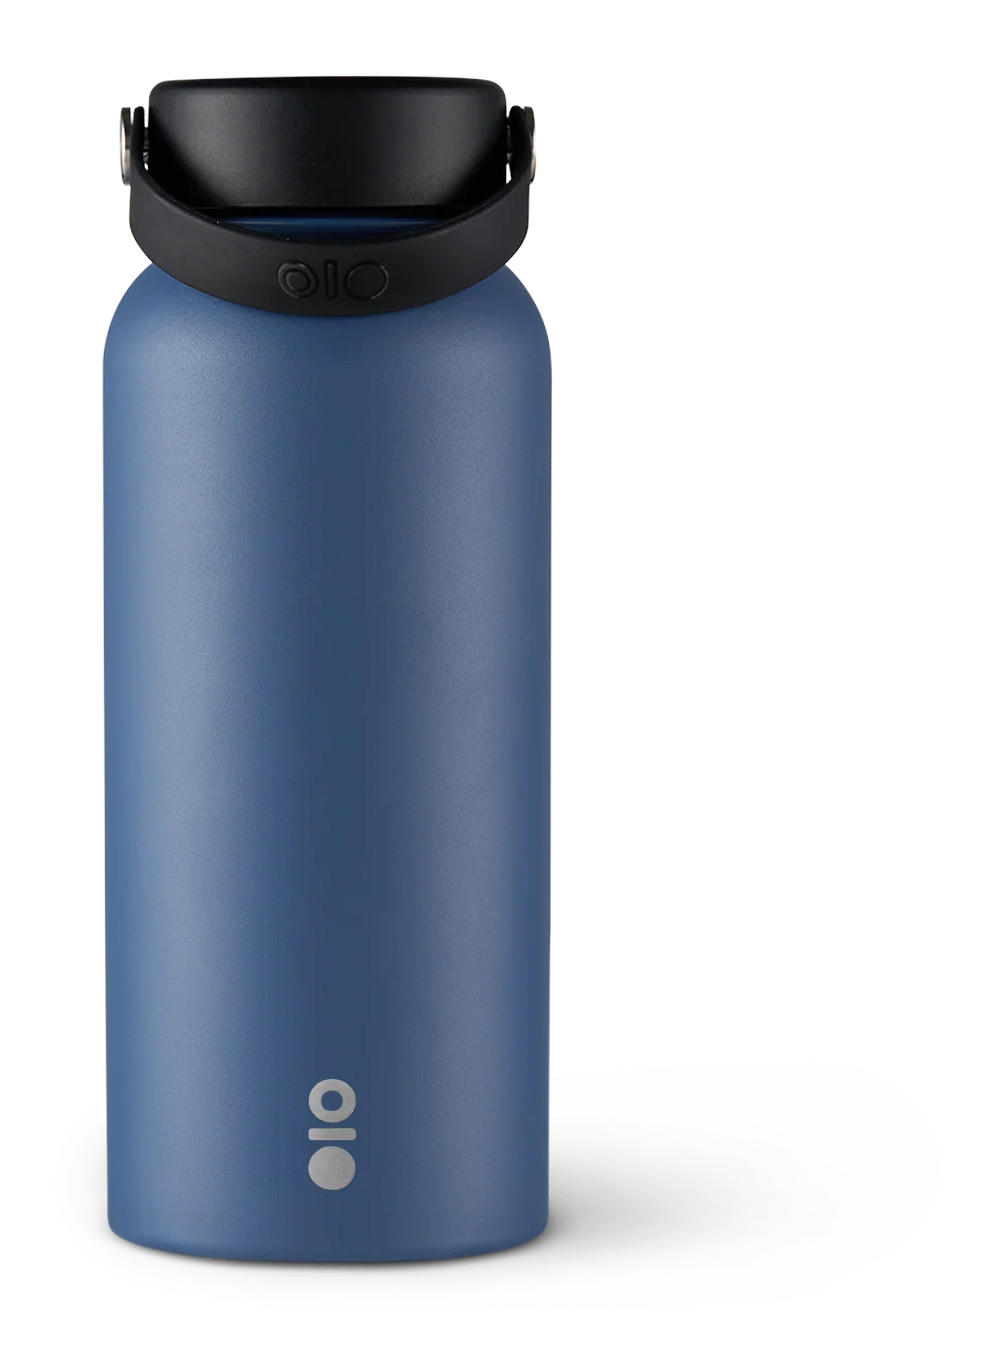
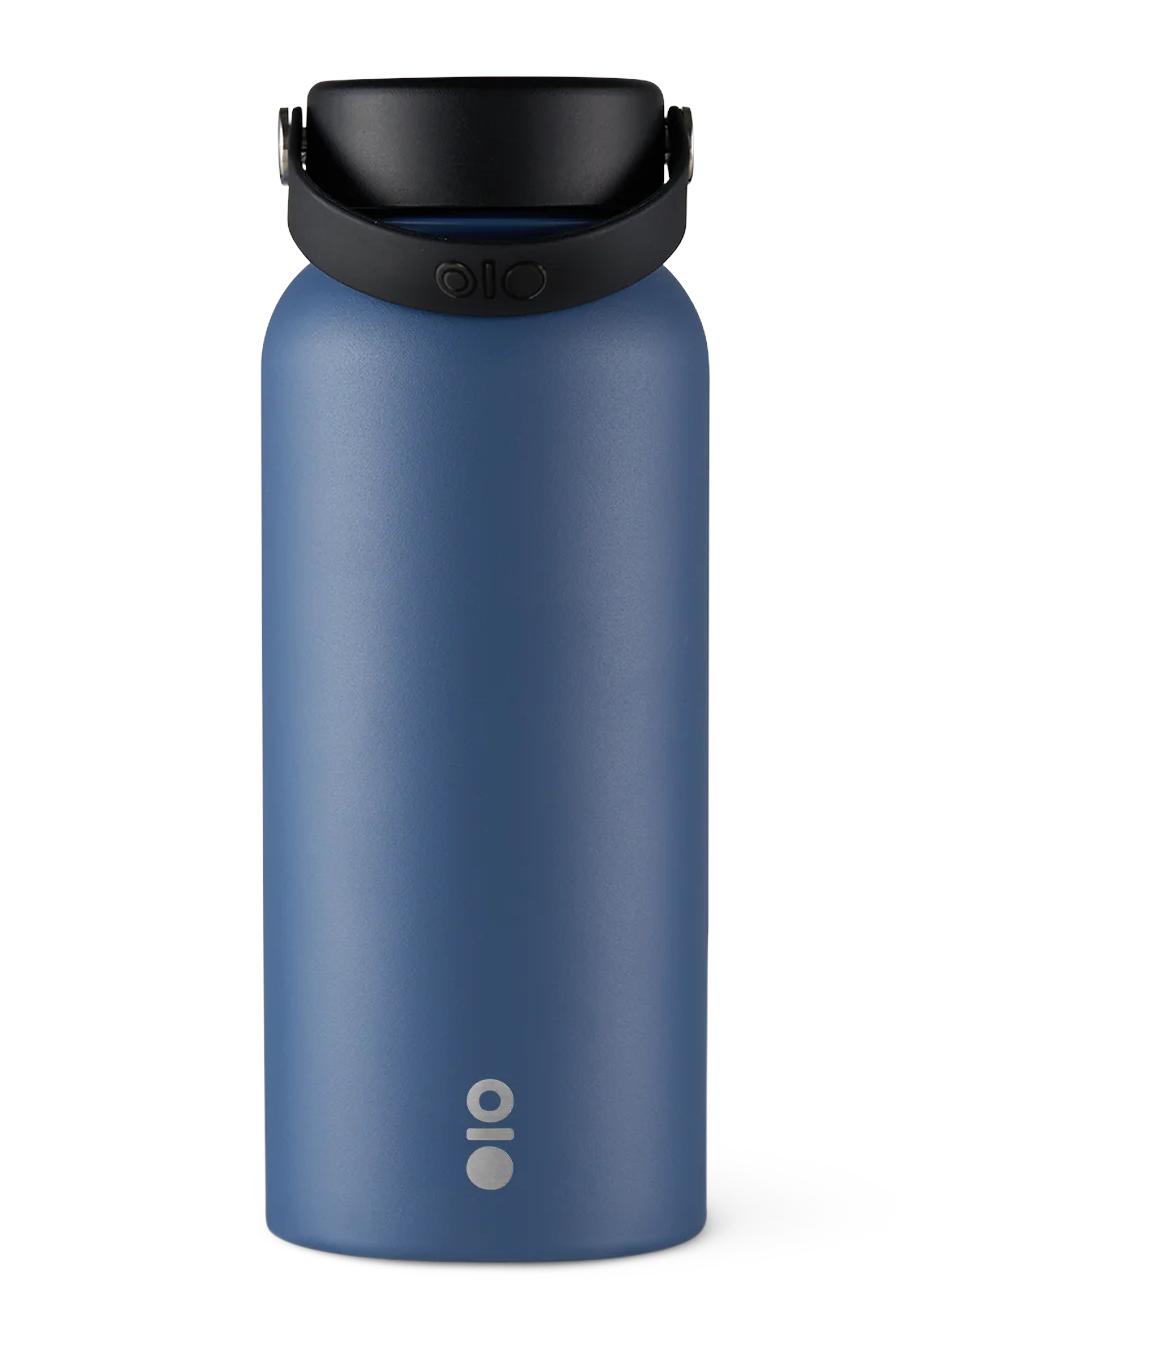
Recenter Montigo bottle image, rename Fuji camera prize
- Montigo bottle photo had its body off-center due to the handle
  strap extending left; padded to recenter the actual bottle
- Renamed lucky draw camera prize to full product name

diff --git a/src/pages/Prizes.tsx b/src/pages/Prizes.tsx
@@ -32,7 +32,7 @@ const merchandise = [
 
 const luckyDrawPrizes = [
   {
-    name: "Fuji Film Camera",
+    name: "Fujifilm Instax Mini 12 Instant Camera",
     image: "/FujiFilm.png",
     fit: "contain" as const,
   },
